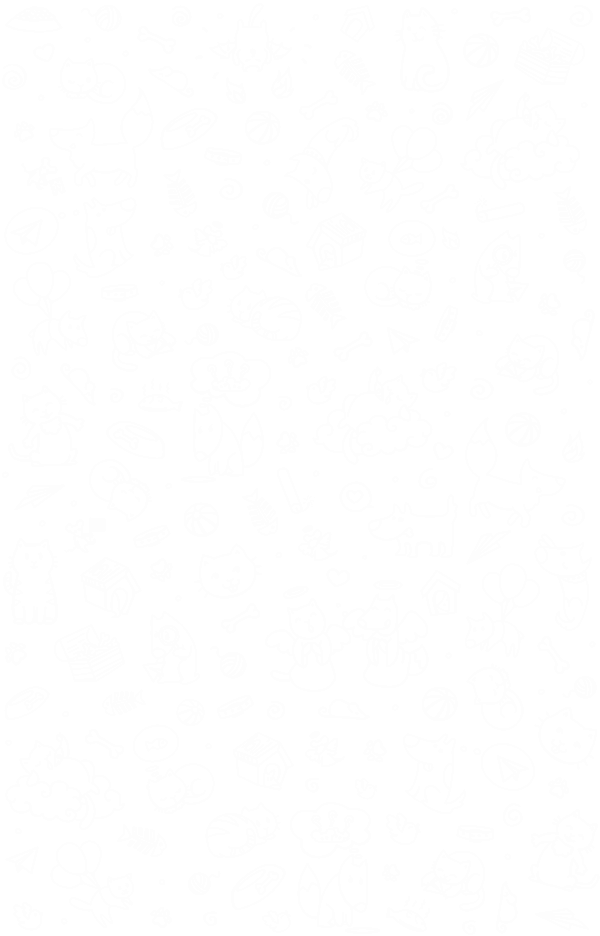
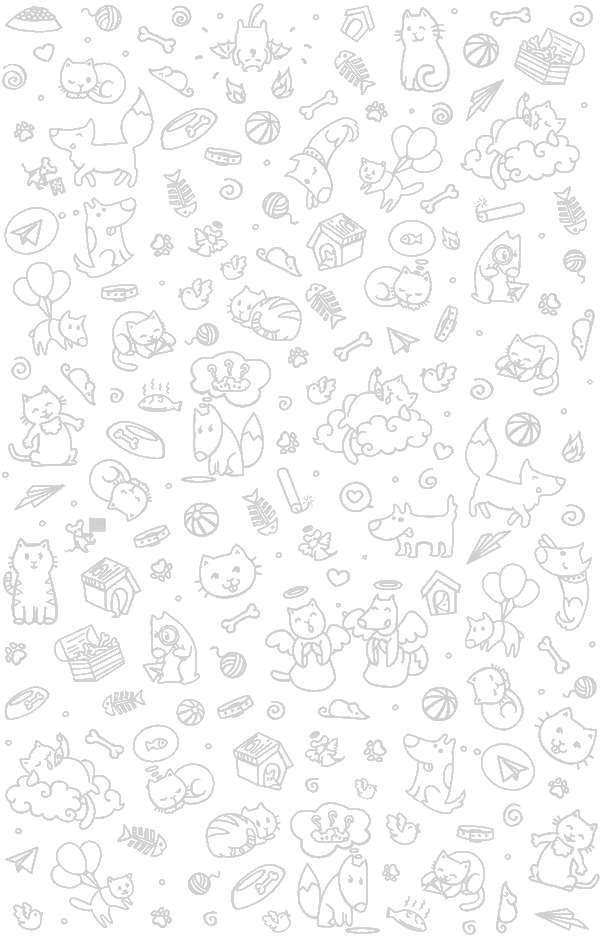
Updated Telegram's background

diff --git a/harbour-sailorgram/qml/components/TelegramBackground.qml b/harbour-sailorgram/qml/components/TelegramBackground.qml
@@ -7,4 +7,5 @@ Image
     fillMode: Image.Tile
     horizontalAlignment: Image.AlignLeft
     verticalAlignment: Image.AlignRight
+    opacity: 0.16
 }
